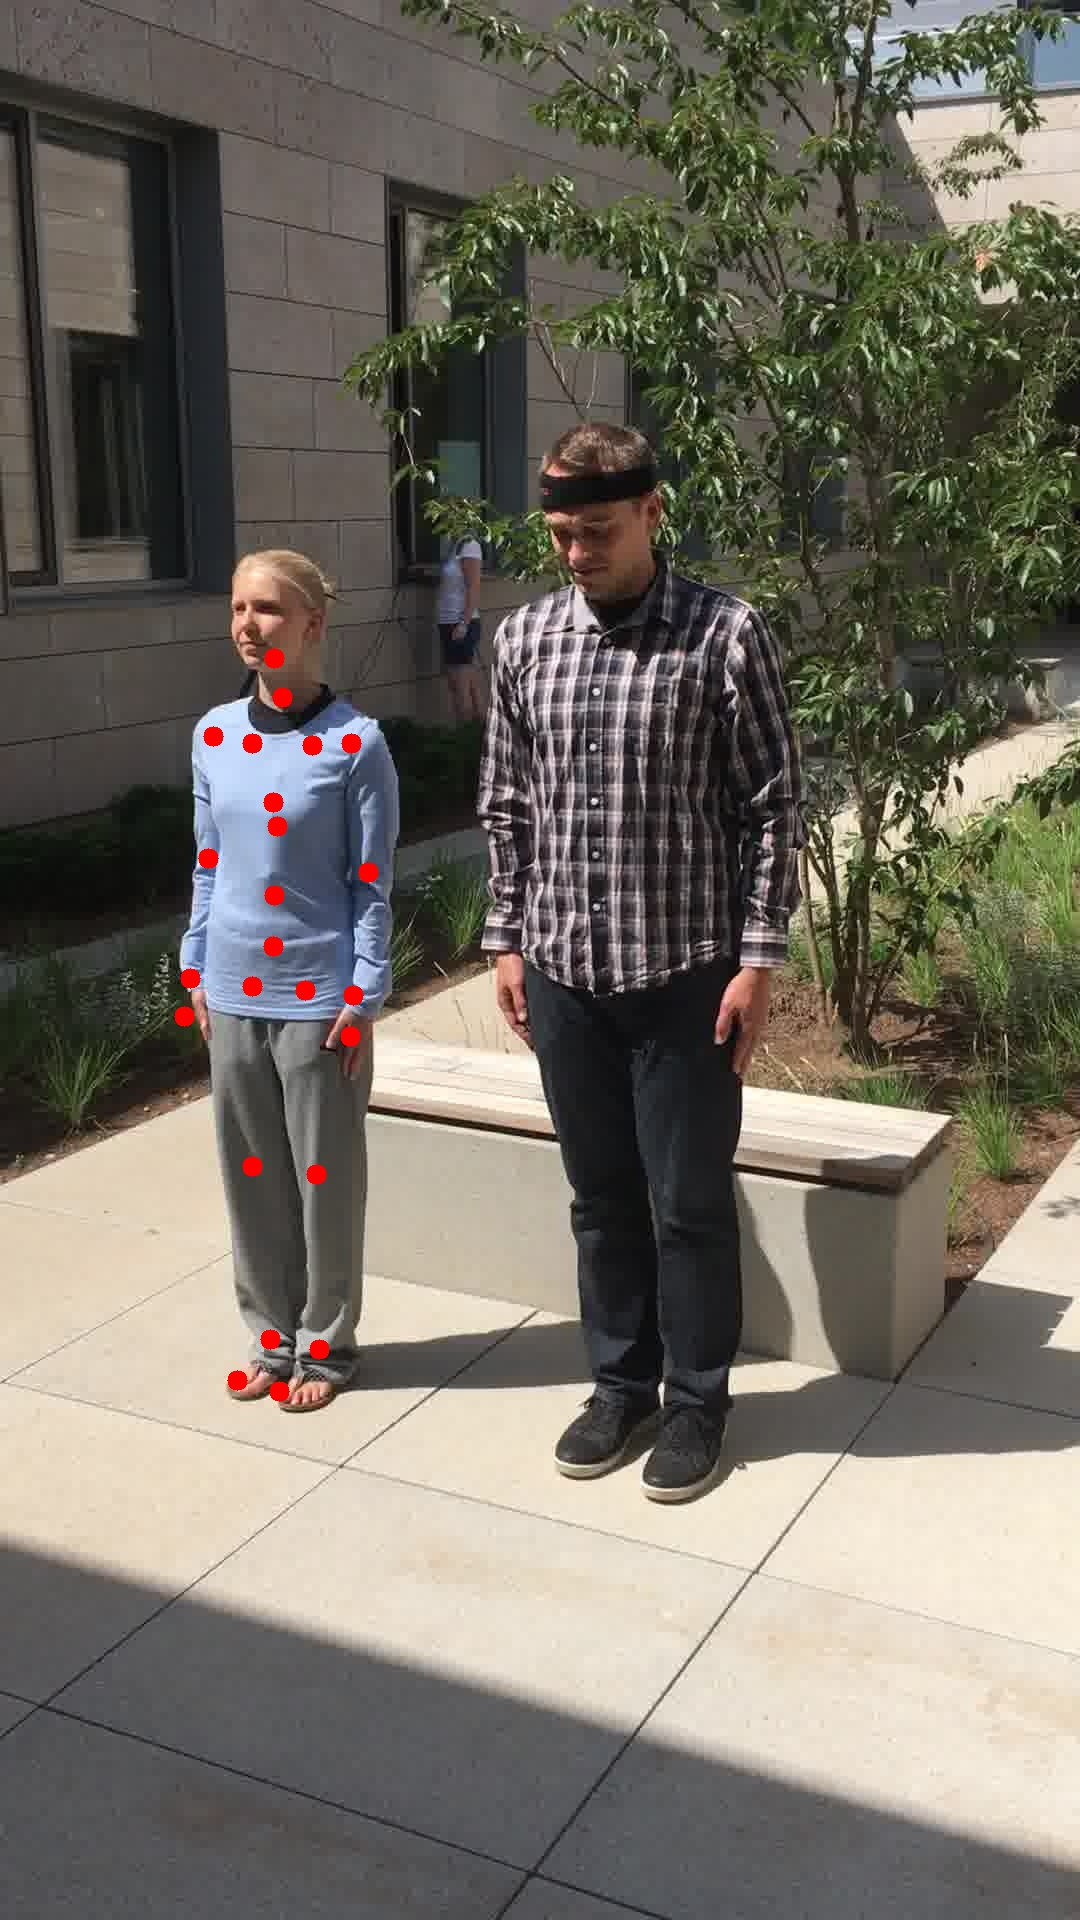
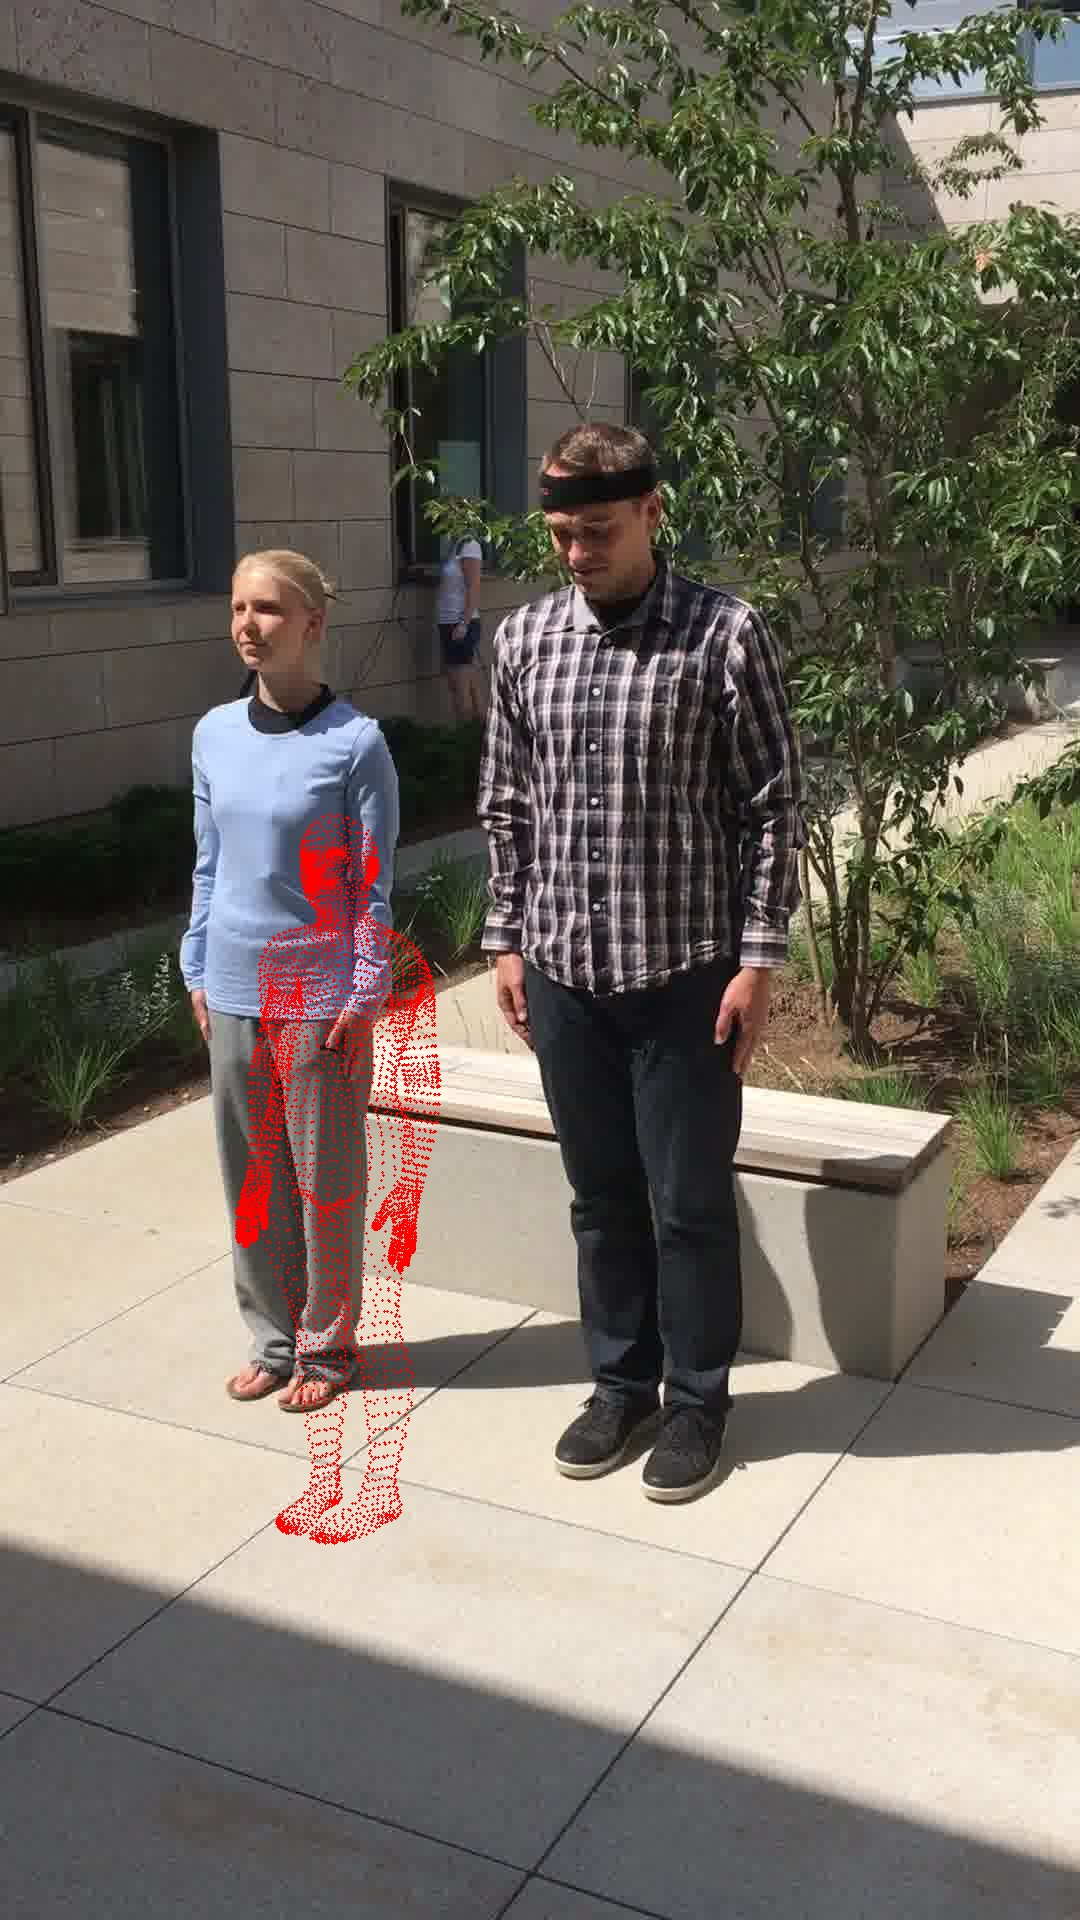
Adjusted SMPL scale to original image

diff --git a/demo.py b/demo.py
@@ -23,6 +23,7 @@ def reproject(projectionMatrix, point_3d):
         points_2d[i][2] = reprojected[2]
 
     return points_2d[:,:2]
+
 if __name__ == '__main__': 
 
     obj = pd.read_pickle(r'3DPW/sequenceFiles/sequenceFiles/train/courtyard_arguing_00.pkl')
@@ -34,17 +35,20 @@ if __name__ == '__main__':
     projectionMatrix = np.matmul(intrinsic, extrinsic)
     
 
-    model = m = load_model( 'smpl/models/basicmodel_neutral_lbs_10_207_0_v1.1.0.pkl' )
+    model = load_model( 'smpl/models/basicmodel_neutral_lbs_10_207_0_v1.1.0.pkl' )
     model.pose[:] = obj['poses'][0][0]
     model.betas[:] = obj['betas'][0][0]
-    point_2d = reproject(projectionMatrix,joint)
+    model.trans[:] = [-0.2,-1.2,0]
+    pred_output = model()
+    
+    point_2d = reproject(projectionMatrix,pred_output) * 1.2
     # model.r: Vertices
     # model.f: Faces
     # model.J: 3D Joints
     img = cv2.imread('3DPW/imageFiles/imageFiles/courtyard_arguing_00/image_00000.jpg')
 
-    for i in range(24):
-        joint_img = cv2.circle(img, (int(point_2d[i][0]), int(point_2d[i][1])), 10, (0,0,255),-1)
+    for i in range(point_2d.shape[0]):
+        joint_img = cv2.circle(img, (int(point_2d[i][0]), int(point_2d[i][1])), 1, (0,0,255),-1)
 
     cv2.imwrite('test.jpg', joint_img)
 
